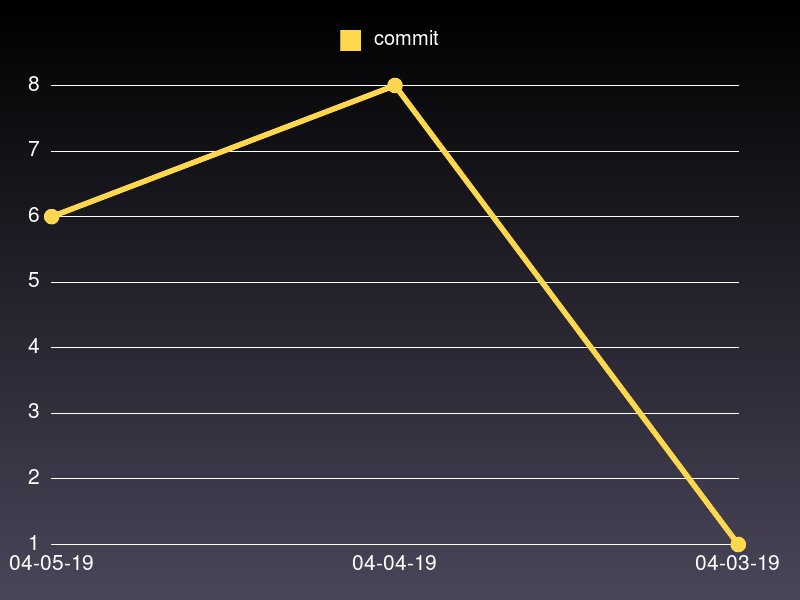
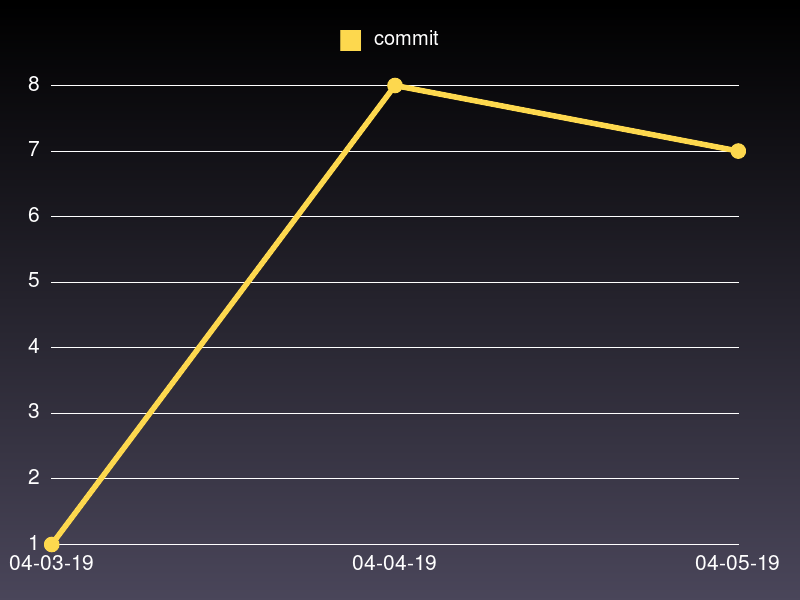
changed order of x-axis

diff --git a/plotter.rb b/plotter.rb
@@ -7,7 +7,7 @@ require 'gruff'
 chart =  Gruff:: Line.new 
 g  = Git.open(ARGV[0], :log => nil)#Logger.new(STDOUT))
 
-dates = g.log.map{|commit| commit.author.date.strftime("%m-%d-%y")}
+dates = g.log.map{|commit| commit.author.date.strftime("%m-%d-%y")}.reverse
 
 dates_total = Hash.new(0) 
 dates.each{|d| dates_total[d] +=  1}
